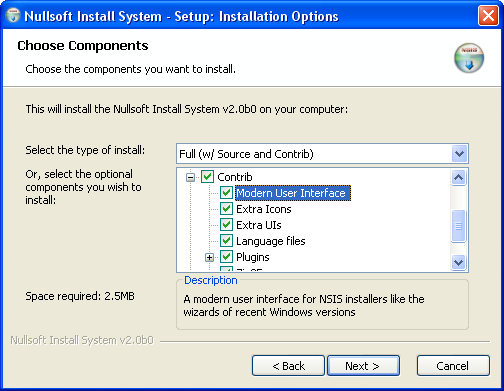
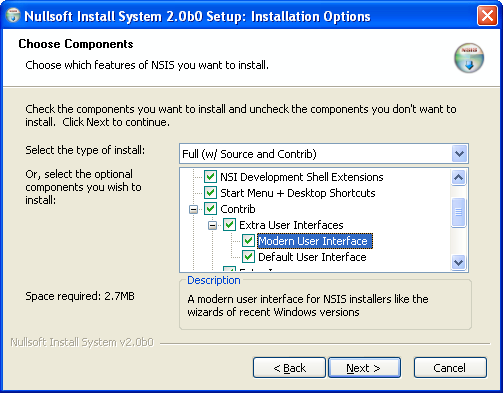
new screenshots
git-svn-id: svn://svn.code.sf.net/p/nsis/code@1788 212acab6-be3b-0410-9dea-997c60f758d6

diff --git a/NSIS/trunk/Contrib/Modern UI/Readme.html b/NSIS/trunk/Contrib/Modern UI/Readme.html
@@ -115,8 +115,9 @@ with a custom user interface.</p>
   to add some code to your NSIS script. Read this document for more info!</p>
 <p class="header">Requirements</p>
 <p class="text"><a href="http://nsis.sourceforge.net">NSIS 2 beta 0 (or later)</a></p>
-<p class="header">Screenshot</p>
-<p class="text"><img src="Screenshot.png" width="504" height="391" alt=""></p>
+<p class="header">Screenshots</p>
+<p class="text"><img src="Screenshot.png" width="503" height="393" alt=""></p>
+<p class="text"><img src="Screenshot2.png" width="503" height="393" alt=""></p>
 <p class="header">How to use</p>
 <p class="text">The Modern UI has a macro system, so most of the code
   has already been written for you!<br><br>
